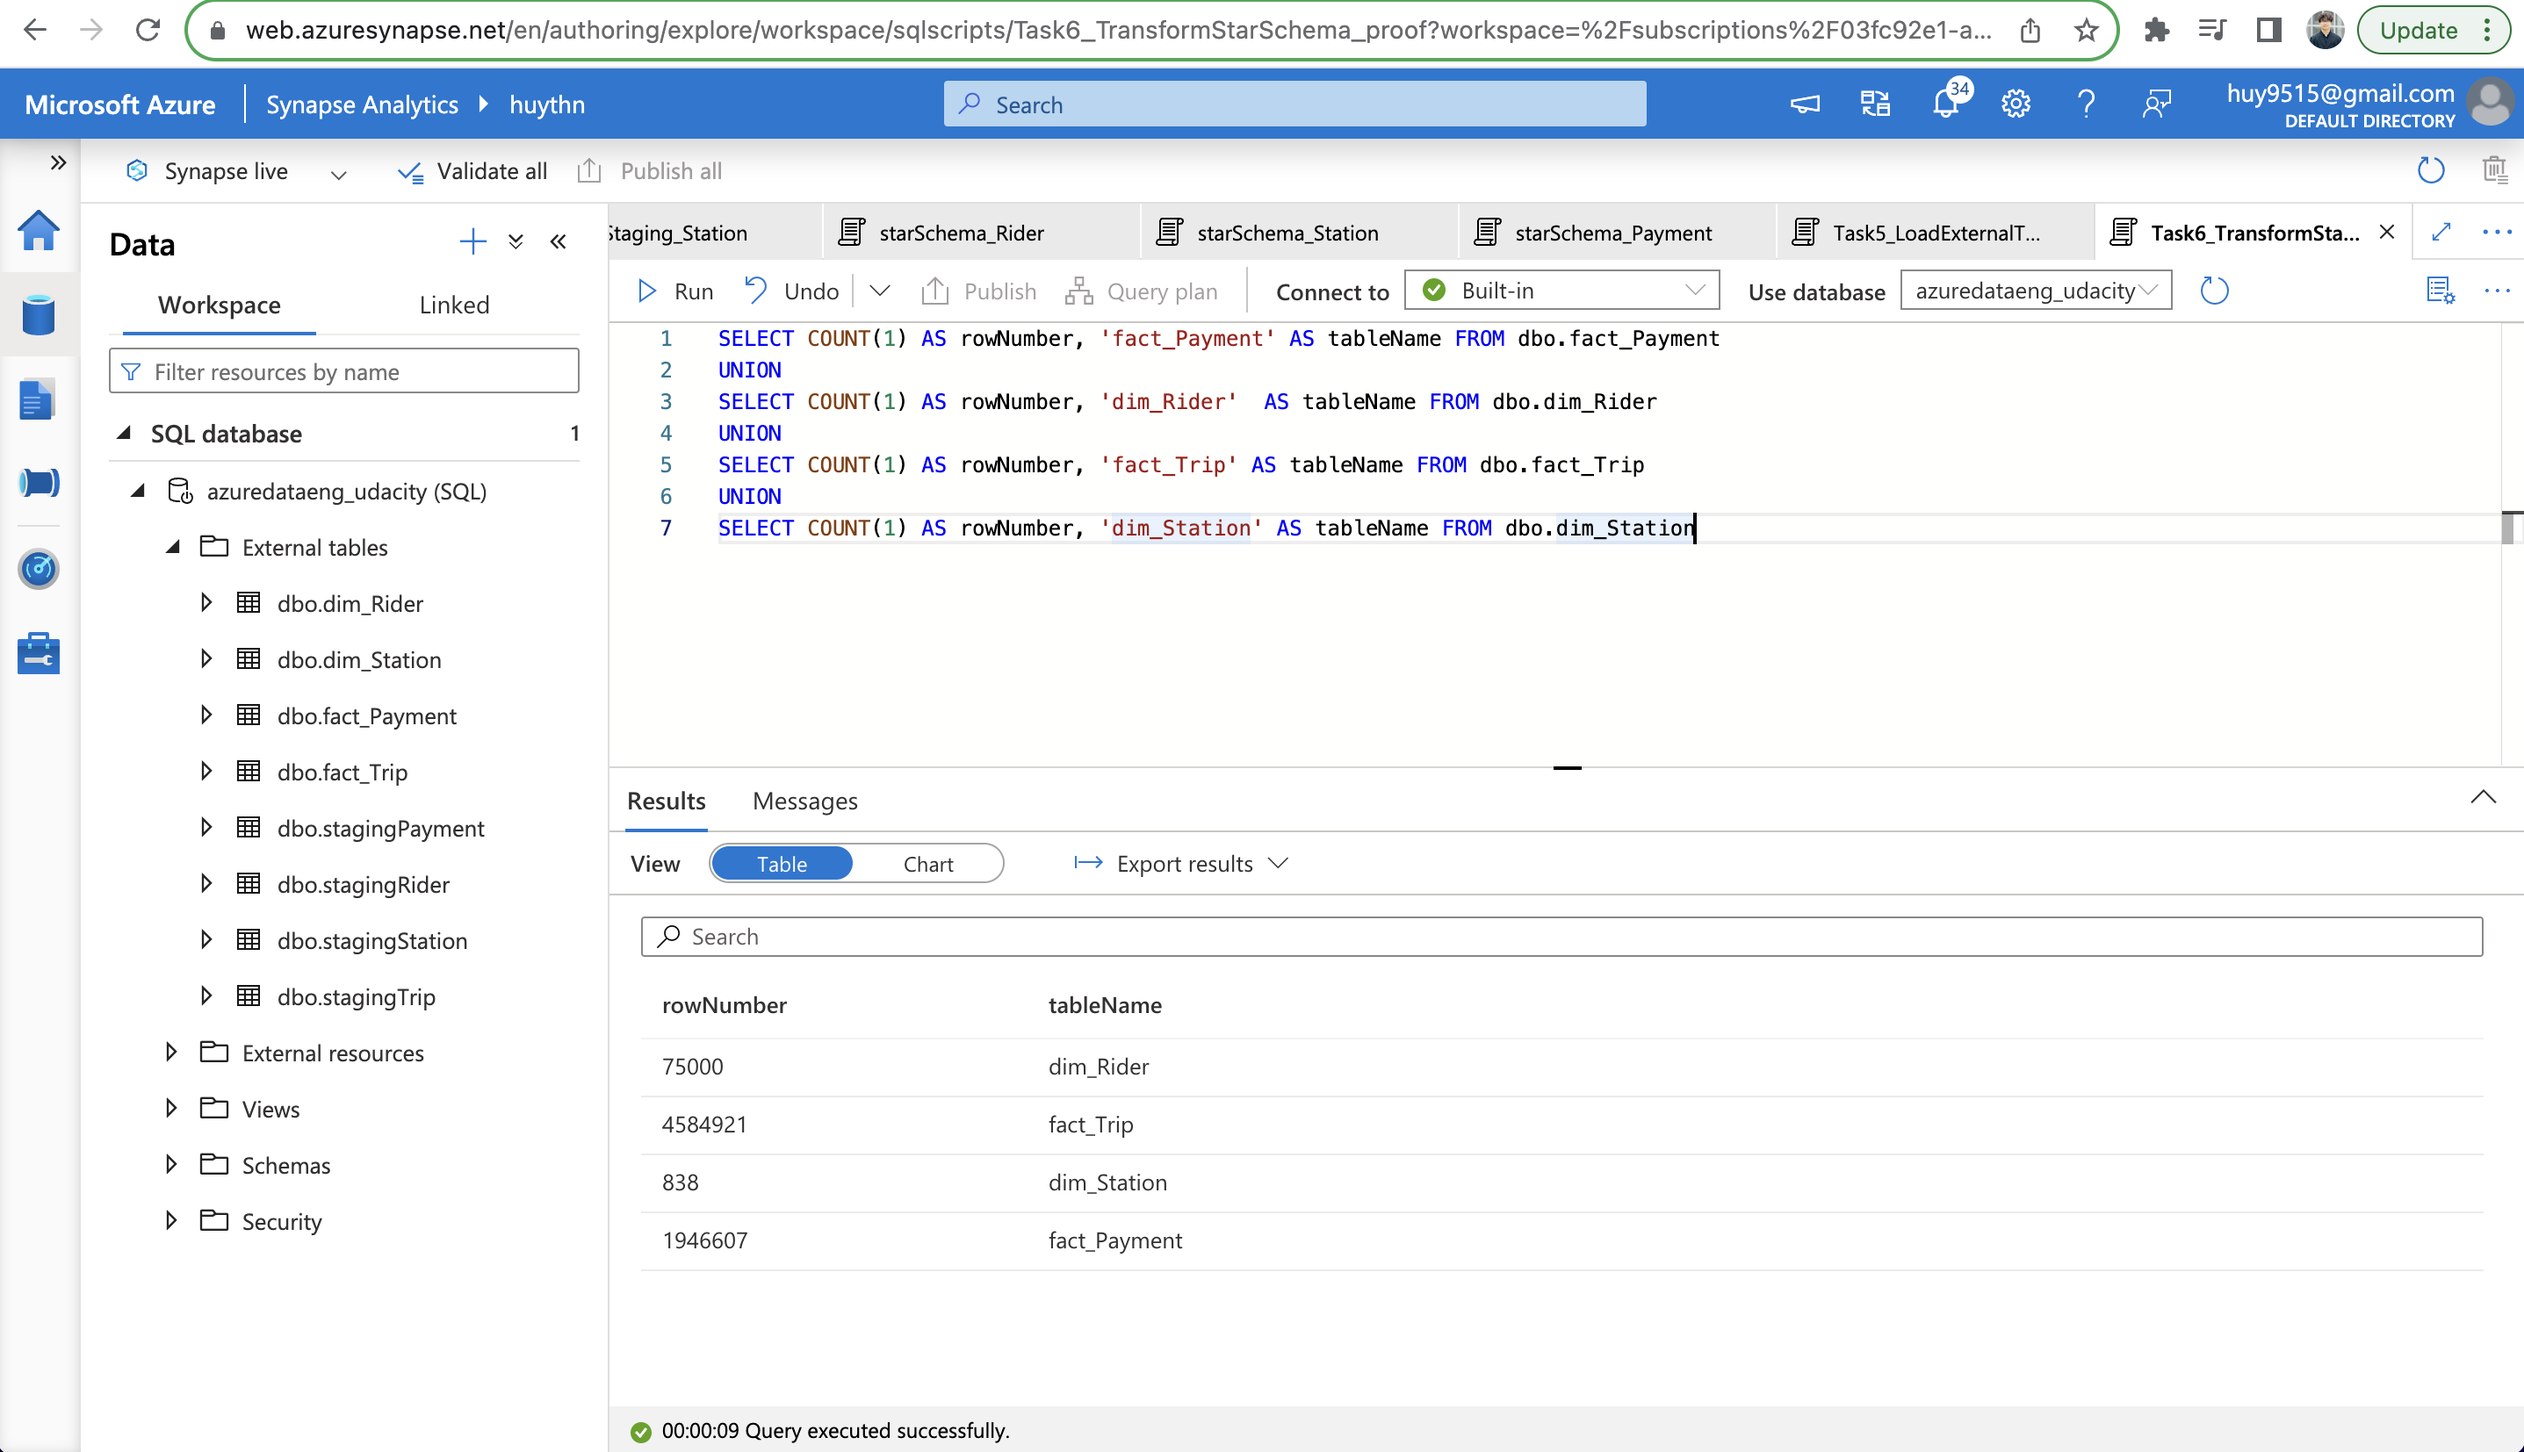
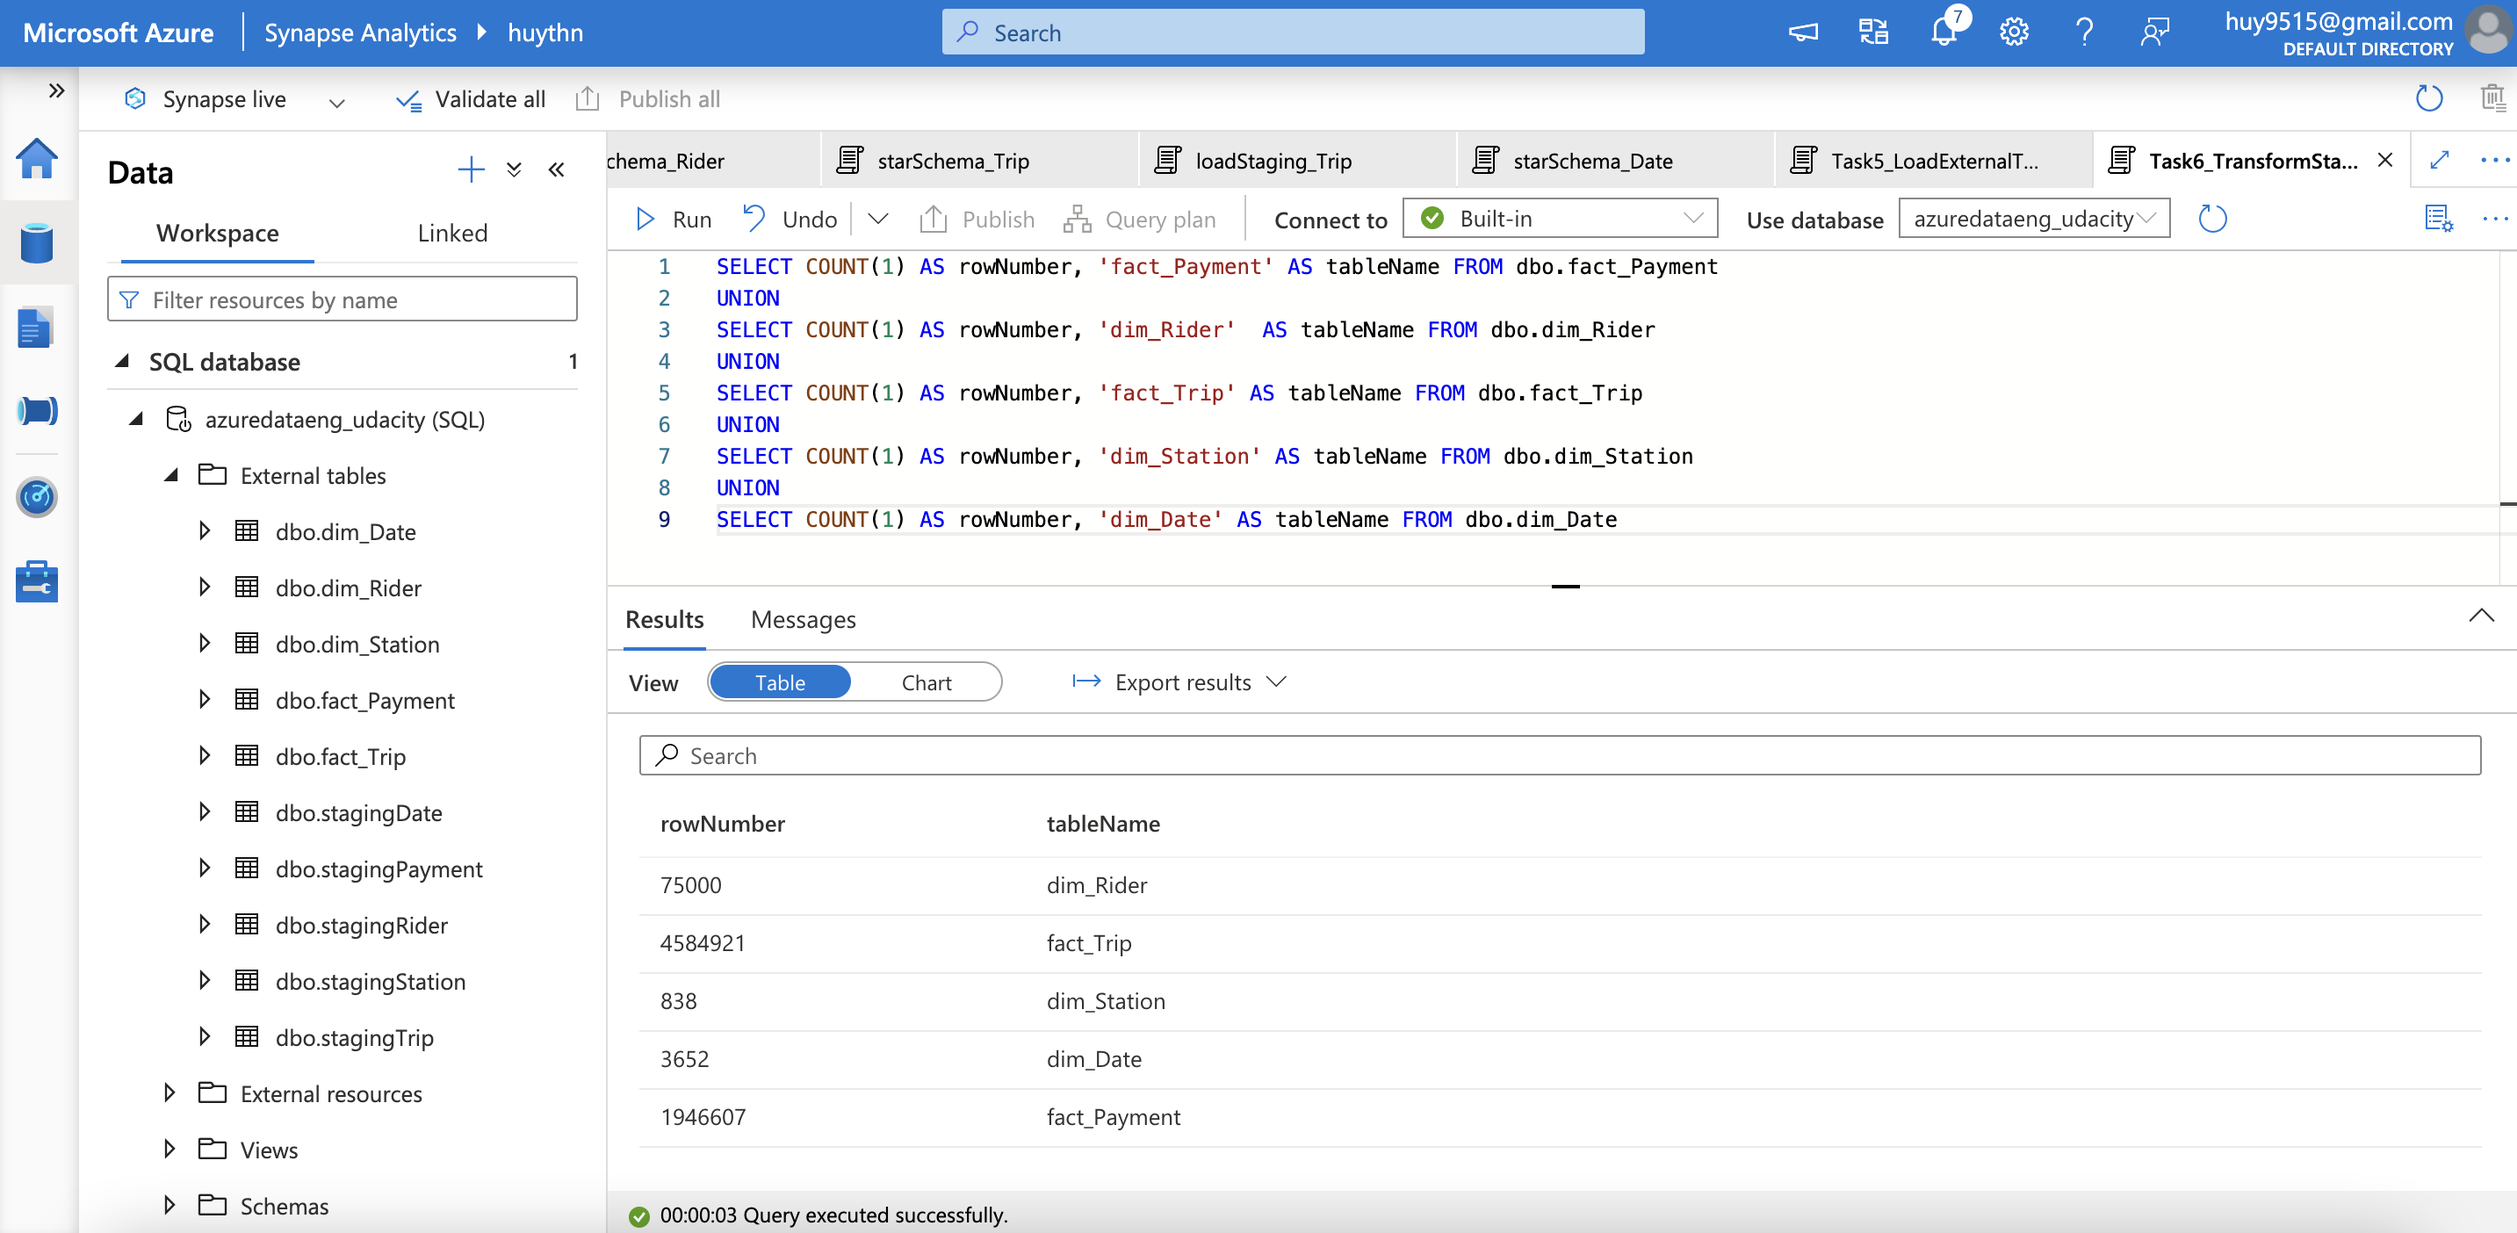
minor README.MD fixes

diff --git a/II.CloudDataWarehouses/README.md b/II.CloudDataWarehouses/README.md
@@ -5,6 +5,7 @@
 - **assets** : storing images used in README.MD, along with screenshots showing proof of task completion, including EXTRACT part.
 - **SQL_ELT_scripts** : storing SQL scripts used for LOAD and TRANSFORM parts, in `Load` and `Transform` subfolders respectively.
 - **StarSchemaPDF.pdf** : PDF file containing designed star schema.
+- **aux_Files** : folder containing auxiliary file of `publicdate.csv`, which is not included in original dataset (in other word, I created it myself), and is necessary for LOAD part.
 
 #### (Scroll down for solution at section II)
 
@@ -136,22 +137,26 @@ For the Date dimension table, as we do not have original raw data, I decided to 
 
 ### Task 5. LOAD the data into external tables in the data warehouse
 
-Now we have 4 delimited text files (CSV). In order to load them from Blob Storage into external staging tables in data warehouse:
+Now we have 5 delimited text files (CSV). In order to load them from Blob Storage into external staging tables in data warehouse:
 
 1. Secure a connection from Azure Synapse Workspace to the Blob Storage. The script used for this is stored at `./SQL_ELT_scripts/Load/init_database_connection.sql`.
 2. For each of the CSV, use an SQL script with `CREATE EXTERNAL TABLE` to generate external table in serverless SQL pool, with reference to the CSV file in Blob Storage. This external table will serve as staging table for later TRANSFORM stage.
-3. Verify that all 4 external tables are created in serverless SQL pool.
+3. Verify that all 5 external tables are created in serverless SQL pool.
+
+You can see all the SQL scripts in `SQL_ELT_scripts/Load`.
 
 ![LOAD external tables](./assets/Task5.LoadExternalTables.png)
 
 ### Task 6. TRANSFORM the data to the star schema using CETAS
 
-Now we have 4 external staging tables, the final task is to transform them into star schema we designed:
+Now we have 5 external staging tables, the final task is to transform them into star schema we designed:
 
 1. Define for file format.
 2. Define the data source to persist the results.
-3. For each of the 4 tables:
+3. For each of the 5 tables:
     - Use CETAS to export select statement.
     - Query head rows to check the desired output.
+
+You can see all the SQL scripts in `SQL_ELT_scripts/Transform`.
 
 ![TRANSFORM to star schema with CETAS](./assets/Task6.TransformStarSchema.png)
